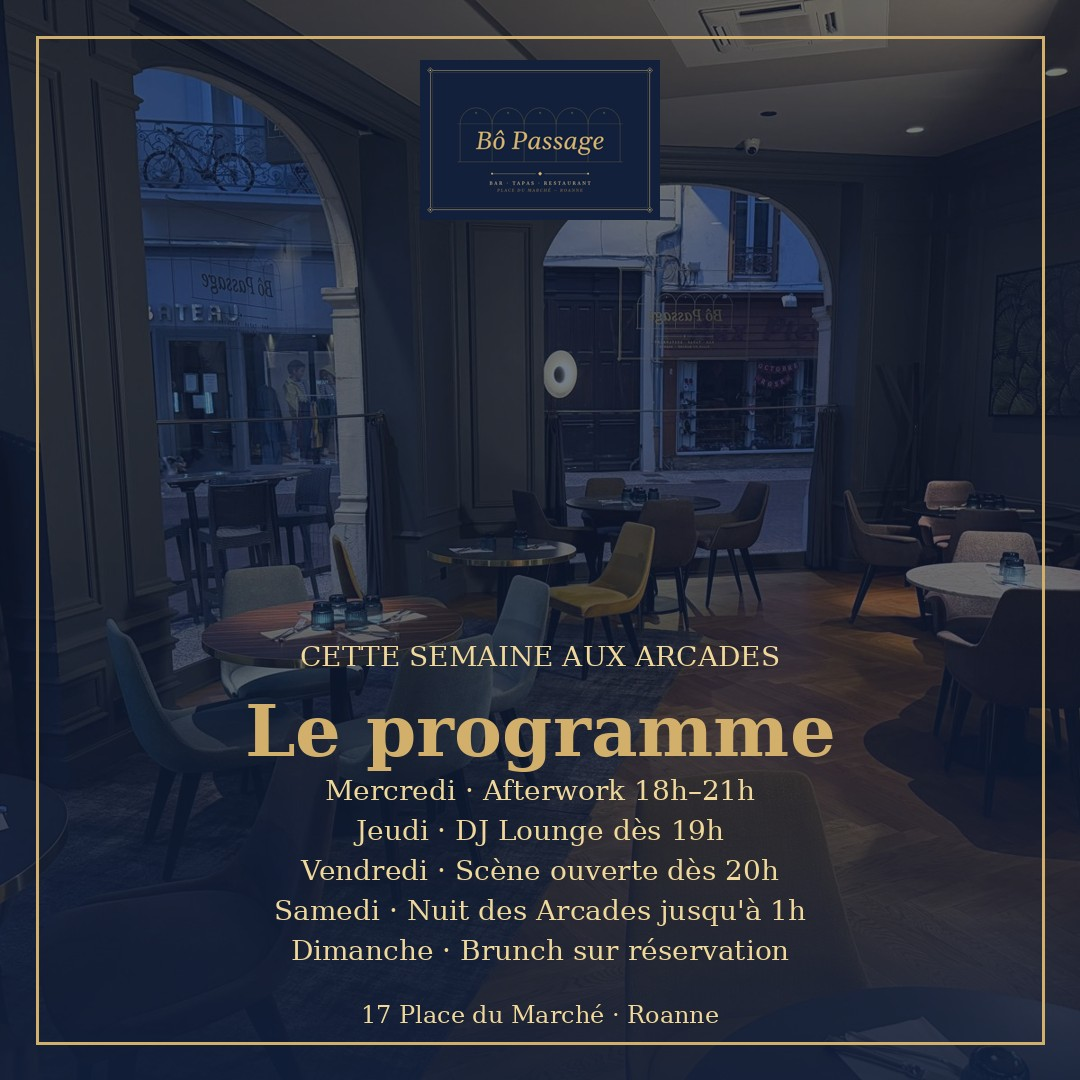
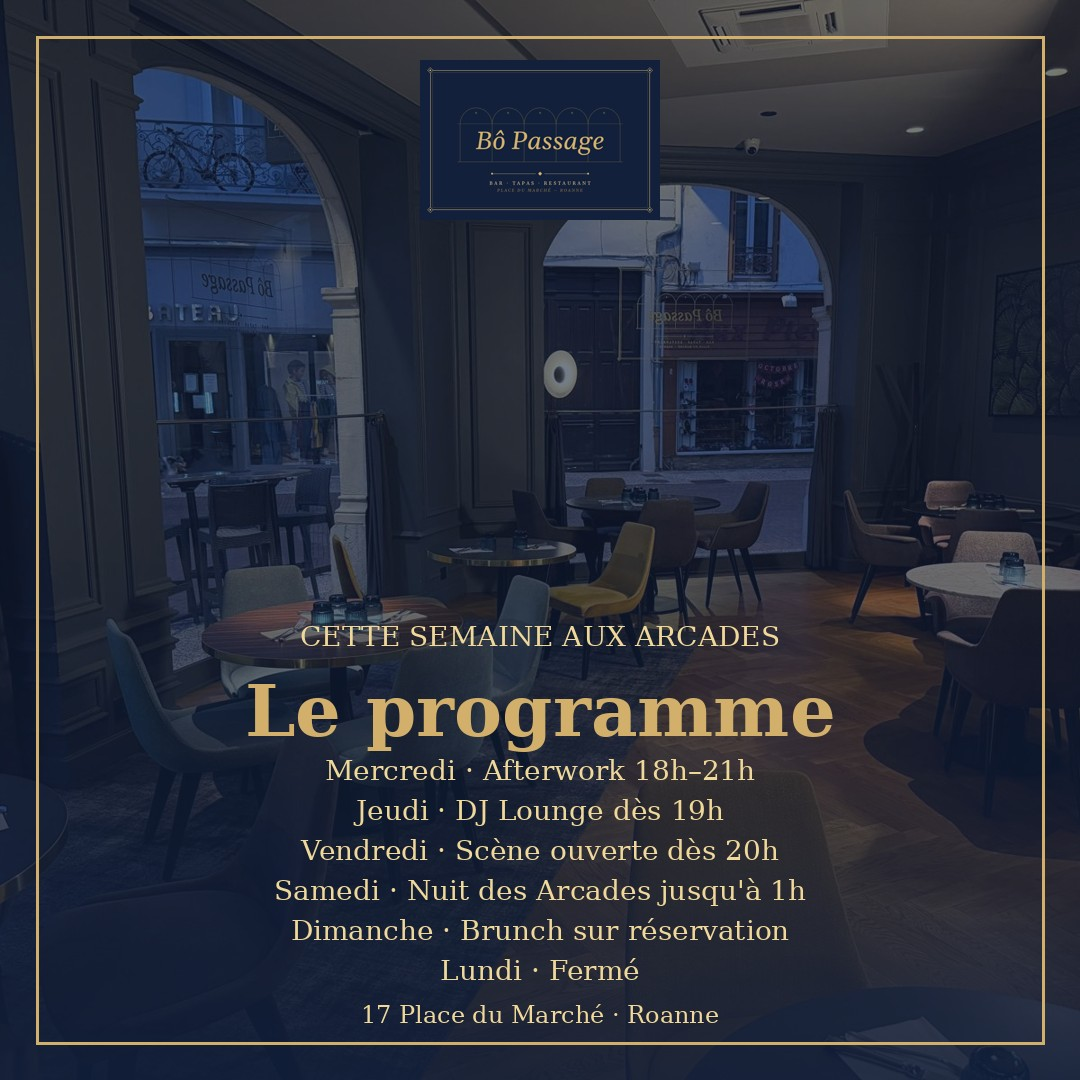
Fermeture le lundi (site + programme), brouillon brunch du dimanche, page jeu sans cache navigateur
Claude-Session: https://claude.ai/code/session_01EDupRFAjLVS5ULFLj682rW

Changed region(s): [[0.2139, 0.6111, 0.7944, 0.9167], [0.275, 0.5806, 0.7333, 0.6111]]

diff --git a/index.html b/index.html
@@ -403,7 +403,7 @@
     </div>
     <div class="strip">
       <div><b>Aujourd'hui</b><span id="today-status">Voir les horaires</span></div>
-      <div><b>Happy hour</b>Tous les soirs 17h30 – 19h30</div>
+      <div><b>Happy hour</b>Mardi – samedi 17h30 – 19h30</div>
       <div><b>Adresse</b>17 place du Marché, 42300 Roanne</div>
     </div>
   </div>
@@ -432,7 +432,7 @@
     <div class="pillars reveal">
       <div class="pillar">
         <svg class="ic" viewBox="0 0 24 24" fill="none" stroke="currentColor" stroke-width="1.3"><path d="M4 8h12v6a5 5 0 0 1-10 0V8zM16 9h2a2 2 0 0 1 0 4h-2M5 21h10"/></svg>
-        <h4>Café dès 9h</h4><p>Tous les jours, et surtout les mardis et vendredis, jours de marché. Café illy, viennoiseries, journaux.</p>
+        <h4>Café dès 9h</h4><p>Du mardi au dimanche, et surtout les mardis et vendredis, jours de marché. Café illy, viennoiseries, journaux.</p>
       </div>
       <div class="pillar">
         <svg class="ic" viewBox="0 0 24 24" fill="none" stroke="currentColor" stroke-width="1.3"><path d="M3 12h18M5 12a7 7 0 0 1 14 0M4 16h16M12 5v1"/></svg>
@@ -458,9 +458,9 @@
     <div class="rule short"><i></i></div>
     <p class="lead">Chaque moment a sa carte. Venez pour l'un, restez pour le suivant.</p>
     <div class="day reveal">
-      <article><div class="h">9h – 11h30</div><h3>Le matin</h3><p>Café, thé, viennoiseries. Ouvert dès 9h tous les jours, idéal après le marché du mardi et du vendredi.</p><span class="price">Café 2 €</span></article>
+      <article><div class="h">9h – 11h30</div><h3>Le matin</h3><p>Café, thé, viennoiseries. Ouvert dès 9h du mardi au dimanche, idéal après le marché du mardi et du vendredi.</p><span class="price">Café 2 €</span></article>
       <article><div class="h">12h – 14h30</div><h3>Le déjeuner</h3><p>Plat du jour maison, assiette généreuse, service en 30 minutes si vous êtes pressés. Mardi, c'est tajine.</p><span class="price">Formule 21 € · 26 €</span></article>
-      <article><div class="h">17h30 – 19h30</div><h3>L'happy hour</h3><p>Tous les soirs. Demi, pinte, cocktail au choix à petit prix, planche à partager.</p><span class="price">Cocktail 6 €</span></article>
+      <article><div class="h">17h30 – 19h30</div><h3>L'happy hour</h3><p>Du mardi au samedi. Demi, pinte, cocktail au choix à petit prix, planche à partager.</p><span class="price">Cocktail 6 €</span></article>
       <article><div class="h">19h – 1h</div><h3>Le soir</h3><p>Tapas marocaines, plateaux à partager, cocktails et bulles. Jusqu'à 22h30 en début de semaine, 1h du matin du jeudi au samedi.</p><span class="price">Tapas 7 € pièce</span></article>
       <article><div class="h">Dimanche 9h – 16h</div><h3>Le brunch</h3><p>Sucré, salé, boissons chaudes et jus frais. Uniquement sur réservation.</p><span class="price">Sur réservation</span></article>
     </div>
@@ -624,7 +624,7 @@
         <div class="hh">
           <span class="kicker">Tous les soirs</span>
           <h3>Happy hour 17h30 – 19h30</h3>
-          <p style="font-size:.95rem;color:rgba(251,244,233,.85)">Du lundi au samedi, pour commencer la soirée en douceur. Planche charcuterie-fromages à partager.</p>
+          <p style="font-size:.95rem;color:rgba(251,244,233,.85)">Du mardi au samedi, pour commencer la soirée en douceur. Planche charcuterie-fromages à partager.</p>
           <div class="tt">
             <div><span>2,50 €</span><small>le demi</small></div>
             <div><span>5 €</span><small>la pinte</small></div>
@@ -939,7 +939,7 @@
         <h2 class="title">Quand venir</h2>
         <div class="rule left"><i></i></div>
         <table class="hours" id="hours">
-          <tr data-d="1"><td>Lundi</td><td>9h – 22h30</td></tr>
+          <tr data-d="1"><td>Lundi</td><td>Fermé</td></tr>
           <tr data-d="2"><td>Mardi</td><td>9h – 22h30</td></tr>
           <tr data-d="3"><td>Mercredi</td><td>9h – 22h30</td></tr>
           <tr data-d="4"><td>Jeudi</td><td>9h – 1h</td></tr>
@@ -947,7 +947,7 @@
           <tr data-d="6"><td>Samedi</td><td>9h – 1h</td></tr>
           <tr data-d="0"><td>Dimanche</td><td>9h – 16h, brunch sur réservation</td></tr>
         </table>
-        <p style="margin-top:1.2rem;font-style:italic;color:rgba(251,244,233,.75);font-size:.95rem">Happy hour tous les soirs de 17h30 à 19h30. Privatisation possible en dehors de ces horaires.</p>
+        <p style="margin-top:1.2rem;font-style:italic;color:rgba(251,244,233,.75);font-size:.95rem">Fermé le lundi. Happy hour du mardi au samedi de 17h30 à 19h30. Privatisation possible en dehors de ces horaires.</p>
       </div>
       <div class="reveal">
         <span class="kicker">Contact &amp; réservation</span>
